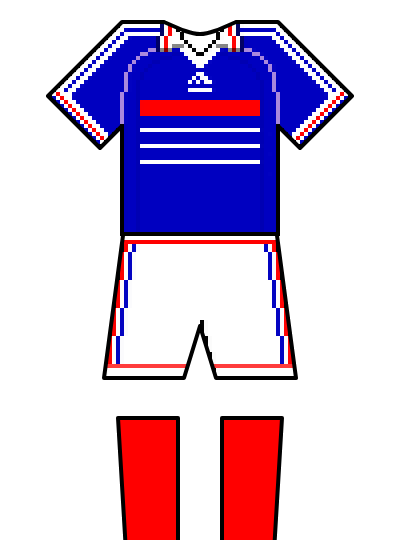
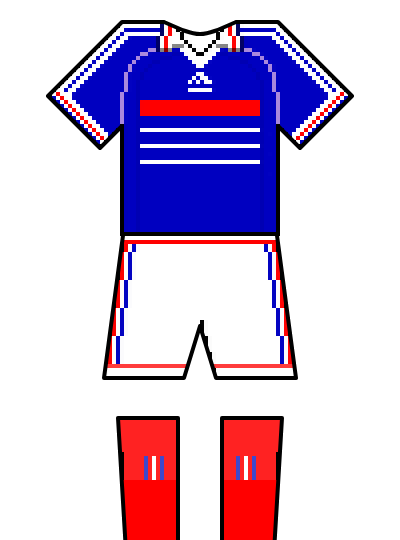
Publish site from bc673e07212436309b5cbb4328c5a6aa83b01605 bc673e07212436309b5cbb4328c5a6aa83b01605

Changed region(s): [[0.54, 0.7704, 0.72, 0.8889], [0.3, 0.7704, 0.45, 0.8889]]

diff --git a/data/kits.js b/data/kits.js
@@ -39,7 +39,7 @@ window.HALFTIME_KITS = [
     matches: ["1930-world-cup-final"],
     coloursSource: "Wikipedia, \"1930 FIFA World Cup final\" (revision 1370476710), CC BY-SA 4.0",
     coloursUrl: "https://en.wikipedia.org/w/index.php?title=1930_FIFA_World_Cup_final&oldid=1370476710",
-    illustration: { file: "argentina-1930.png", credit: "Drawn after the kit shown in Wikipedia’s \"1930 FIFA World Cup final\" article. Pattern pictures from Wikimedia Commons: Kit left arm white stripes.png (CC BY-SA 3.0); Kit body 3stripesonwhite.png (CC BY-SA 3.0); Kit right arm white stripes.png (CC BY-SA 3.0). Outline: Wikimedia Commons kit template drawings." }
+    illustration: { file: "argentina-1930.png", credit: "Drawn after the kit shown in Wikipedia’s \"1930 FIFA World Cup final\" article. Pattern pictures from Wikimedia Commons: Kit left arm white stripes.png (CC BY-SA 3.0); Kit body 3stripesonwhite.png (CC BY-SA 3.0); Kit right arm white stripes.png (CC BY-SA 3.0); Kit socks white bands.png (CC BY-SA 3.0, VEO15). Outline: Wikimedia Commons kit template drawings." }
   },
   {
     id: "uruguay-1930",
@@ -54,7 +54,7 @@ window.HALFTIME_KITS = [
     matches: ["1930-world-cup-final"],
     coloursSource: "Wikipedia, \"1930 FIFA World Cup final\" (revision 1370476710), CC BY-SA 4.0",
     coloursUrl: "https://en.wikipedia.org/w/index.php?title=1930_FIFA_World_Cup_final&oldid=1370476710",
-    illustration: { file: "uruguay-1930.png", credit: "Drawn after the kit shown in Wikipedia’s \"1930 FIFA World Cup final\" article. Pattern pictures from Wikimedia Commons: Kit left arm whiteborder.png (CC BY-SA 3.0); Kit body collarwhite laced.png (CC BY-SA 4.0, Fma12); Kit right arm whiteborder.png (CC BY-SA 3.0). Outline: Wikimedia Commons kit template drawings." }
+    illustration: { file: "uruguay-1930.png", credit: "Drawn after the kit shown in Wikipedia’s \"1930 FIFA World Cup final\" article. Pattern pictures from Wikimedia Commons: Kit left arm whiteborder.png (CC BY-SA 3.0); Kit body collarwhite laced.png (CC BY-SA 4.0, Fma12); Kit right arm whiteborder.png (CC BY-SA 3.0); Kit socks white bands.png (CC BY-SA 3.0, VEO15). Outline: Wikimedia Commons kit template drawings." }
   },
   {
     id: "czechoslovakia-1934",
@@ -84,7 +84,7 @@ window.HALFTIME_KITS = [
     matches: ["1934-world-cup-final"],
     coloursSource: "Wikipedia, \"1934 FIFA World Cup final\" (revision 1370476727), CC BY-SA 4.0",
     coloursUrl: "https://en.wikipedia.org/w/index.php?title=1934_FIFA_World_Cup_final&oldid=1370476727",
-    illustration: { file: "italy-1934.png", credit: "Drawn after the kit shown in Wikipedia’s \"1934 FIFA World Cup final\" article. Pattern pictures from Wikimedia Commons: Kit left arm Italia1927-1943h.png (CC BY-SA 4.0, Romano1979); Kit body colour vneck.png (CC0, KoreanDragon); Kit right arm Italia1927-1943h.png (CC BY-SA 4.0, Romano1979); Kit shorts Italiah.png (CC BY-SA 4.0, Romano1979). Outline: Wikimedia Commons kit template drawings." }
+    illustration: { file: "italy-1934.png", credit: "Drawn after the kit shown in Wikipedia’s \"1934 FIFA World Cup final\" article. Pattern pictures from Wikimedia Commons: Kit left arm Italia1927-1943h.png (CC BY-SA 4.0, Romano1979); Kit body colour vneck.png (CC0, KoreanDragon); Kit right arm Italia1927-1943h.png (CC BY-SA 4.0, Romano1979); Kit shorts Italiah.png (CC BY-SA 4.0, Romano1979); Kit socks Italia1927-1943h.png (CC BY-SA 4.0, Romano1979). Outline: Wikimedia Commons kit template drawings." }
   },
   {
     id: "hungary-1938",
@@ -114,7 +114,7 @@ window.HALFTIME_KITS = [
     matches: ["1938-world-cup-final"],
     coloursSource: "Wikipedia, \"1938 FIFA World Cup final\" (revision 1370476759), CC BY-SA 4.0",
     coloursUrl: "https://en.wikipedia.org/w/index.php?title=1938_FIFA_World_Cup_final&oldid=1370476759",
-    illustration: { file: "italy-1938.png", credit: "Drawn after the kit shown in Wikipedia’s \"1938 FIFA World Cup final\" article. Pattern pictures from Wikimedia Commons: Kit left arm Italia1927-1943h.png (CC BY-SA 4.0, Romano1979); Kit body colour vneck.png (CC0, KoreanDragon); Kit right arm Italia1927-1943h.png (CC BY-SA 4.0, Romano1979); Kit shorts Italiah.png (CC BY-SA 4.0, Romano1979). Outline: Wikimedia Commons kit template drawings." }
+    illustration: { file: "italy-1938.png", credit: "Drawn after the kit shown in Wikipedia’s \"1938 FIFA World Cup final\" article. Pattern pictures from Wikimedia Commons: Kit left arm Italia1927-1943h.png (CC BY-SA 4.0, Romano1979); Kit body colour vneck.png (CC0, KoreanDragon); Kit right arm Italia1927-1943h.png (CC BY-SA 4.0, Romano1979); Kit shorts Italiah.png (CC BY-SA 4.0, Romano1979); Kit socks Italia1927-1943h.png (CC BY-SA 4.0, Romano1979). Outline: Wikimedia Commons kit template drawings." }
   },
   {
     id: "brazil-1950",
@@ -144,7 +144,7 @@ window.HALFTIME_KITS = [
     matches: ["1950-world-cup-final"],
     coloursSource: "Wikipedia, \"Uruguay v Brazil (1950 FIFA World Cup)\" (revision 1370476799), CC BY-SA 4.0",
     coloursUrl: "https://en.wikipedia.org/w/index.php?title=Uruguay_v_Brazil_(1950_FIFA_World_Cup)&oldid=1370476799",
-    illustration: { file: "uruguay-1950.png", credit: "Drawn after the kit shown in Wikipedia’s \"Uruguay v Brazil (1950 FIFA World Cup)\" article. Pattern pictures from Wikimedia Commons: Kit left arm whiteborder.png (CC BY-SA 3.0); Kit body vneckwhite.png (Public domain, No machine-readable author provided.); Kit right arm whiteborder.png (CC BY-SA 3.0). Outline: Wikimedia Commons kit template drawings." }
+    illustration: { file: "uruguay-1950.png", credit: "Drawn after the kit shown in Wikipedia’s \"Uruguay v Brazil (1950 FIFA World Cup)\" article. Pattern pictures from Wikimedia Commons: Kit left arm whiteborder.png (CC BY-SA 3.0); Kit body vneckwhite.png (Public domain, No machine-readable author provided.); Kit right arm whiteborder.png (CC BY-SA 3.0); Kit socks skybluetop.png (CC BY-SA 3.0, MEDM). Outline: Wikimedia Commons kit template drawings." }
   },
   {
     id: "hungary-1954",
@@ -159,7 +159,7 @@ window.HALFTIME_KITS = [
     matches: ["1954-world-cup-final"],
     coloursSource: "Wikipedia, \"1954 FIFA World Cup final\" (revision 1373704546), CC BY-SA 4.0",
     coloursUrl: "https://en.wikipedia.org/w/index.php?title=1954_FIFA_World_Cup_final&oldid=1373704546",
-    illustration: { file: "hungary-1954.png", credit: "Drawn after the kit shown in Wikipedia’s \"1954 FIFA World Cup final\" article. Pattern pictures from Wikimedia Commons: Kit body hun 1949 1956 home.png (CC BY-SA 3.0, Brgesto). Outline: Wikimedia Commons kit template drawings." }
+    illustration: { file: "hungary-1954.png", credit: "Drawn after the kit shown in Wikipedia’s \"1954 FIFA World Cup final\" article. Pattern pictures from Wikimedia Commons: Kit body hun 1949 1956 home.png (CC BY-SA 3.0, Brgesto); Kit socks whitestripe.png (CC BY-SA 3.0, El_Pollo_Diablo). Outline: Wikimedia Commons kit template drawings." }
   },
   {
     id: "west-germany-1954",
@@ -174,7 +174,7 @@ window.HALFTIME_KITS = [
     matches: ["1954-world-cup-final"],
     coloursSource: "Wikipedia, \"1954 FIFA World Cup final\" (revision 1373704546), CC BY-SA 4.0",
     coloursUrl: "https://en.wikipedia.org/w/index.php?title=1954_FIFA_World_Cup_final&oldid=1373704546",
-    illustration: { file: "west-germany-1954.png", credit: "Drawn after the kit shown in Wikipedia’s \"1954 FIFA World Cup final\" article. Pattern pictures from Wikimedia Commons: Kit left arm blackborder.png (Public domain, No machine-readable author provided.); Kit body ger54h.png (CC BY-SA 4.0, KoreanDragon); Kit right arm blackborder.png (Public domain, No machine-readable author provided.). Outline: Wikimedia Commons kit template drawings." }
+    illustration: { file: "west-germany-1954.png", credit: "Drawn after the kit shown in Wikipedia’s \"1954 FIFA World Cup final\" article. Pattern pictures from Wikimedia Commons: Kit left arm blackborder.png (Public domain, No machine-readable author provided.); Kit body ger54h.png (CC BY-SA 4.0, KoreanDragon); Kit right arm blackborder.png (Public domain, No machine-readable author provided.); Kit socks band white.png (CC BY-SA 3.0, Bruno-ban). Outline: Wikimedia Commons kit template drawings." }
   },
   {
     id: "brazil-1958",
@@ -204,7 +204,7 @@ window.HALFTIME_KITS = [
     matches: ["1958-world-cup-final"],
     coloursSource: "Wikipedia, \"1958 FIFA World Cup final\" (revision 1370476889), CC BY-SA 4.0",
     coloursUrl: "https://en.wikipedia.org/w/index.php?title=1958_FIFA_World_Cup_final&oldid=1370476889",
-    illustration: { file: "sweden-1958.png", credit: "Drawn after the kit shown in Wikipedia’s \"1958 FIFA World Cup final\" article. Pattern pictures from Wikimedia Commons: Kit body swe58h.png (CC0, KoreanDragon). Outline: Wikimedia Commons kit template drawings." }
+    illustration: { file: "sweden-1958.png", credit: "Drawn after the kit shown in Wikipedia’s \"1958 FIFA World Cup final\" article. Pattern pictures from Wikimedia Commons: Kit body swe58h.png (CC0, KoreanDragon); Kit socks yellowtop.png (CC BY-SA 3.0, Luxusfrosch). Outline: Wikimedia Commons kit template drawings." }
   },
   {
     id: "brazil-1962",
@@ -294,7 +294,7 @@ window.HALFTIME_KITS = [
     matches: ["1970-world-cup-final"],
     coloursSource: "Wikipedia, \"1970 FIFA World Cup final\" (revision 1378370769), CC BY-SA 4.0",
     coloursUrl: "https://en.wikipedia.org/w/index.php?title=1970_FIFA_World_Cup_final&oldid=1378370769",
-    illustration: { file: "italy-1970.png", credit: "Drawn after the kit shown in Wikipedia’s \"1970 FIFA World Cup final\" article. Pattern pictures from Wikimedia Commons: Kit body ita70h.png (CC0, KoreanDragon). Outline: Wikimedia Commons kit template drawings." }
+    illustration: { file: "italy-1970.png", credit: "Drawn after the kit shown in Wikipedia’s \"1970 FIFA World Cup final\" article. Pattern pictures from Wikimedia Commons: Kit body ita70h.png (CC0, KoreanDragon); Kit socks 2whitestripes.png (CC BY-SA 3.0, El_Pollo_Diablo). Outline: Wikimedia Commons kit template drawings." }
   },
   {
     id: "netherlands-1974",
@@ -309,7 +309,7 @@ window.HALFTIME_KITS = [
     matches: ["1974-world-cup-final"],
     coloursSource: "Wikipedia, \"1974 FIFA World Cup final\" (revision 1376222563), CC BY-SA 4.0",
     coloursUrl: "https://en.wikipedia.org/w/index.php?title=1974_FIFA_World_Cup_final&oldid=1376222563",
-    illustration: { file: "netherlands-1974.png", credit: "Drawn after the kit shown in Wikipedia’s \"1974 FIFA World Cup final\" article. Pattern pictures from Wikimedia Commons: Kit left arm netherlands80h.png (CC BY-SA 4.0, Zotteteen1); Kit body ned74h.png (CC0, KoreanDragon); Kit right arm netherlands80h.png (CC BY-SA 4.0, Zotteteen1); Kit shorts adidasonwhite.png (Public domain, Kanchelskis). Outline: Wikimedia Commons kit template drawings." }
+    illustration: { file: "netherlands-1974.png", credit: "Drawn after the kit shown in Wikipedia’s \"1974 FIFA World Cup final\" article. Pattern pictures from Wikimedia Commons: Kit left arm netherlands80h.png (CC BY-SA 4.0, Zotteteen1); Kit body ned74h.png (CC0, KoreanDragon); Kit right arm netherlands80h.png (CC BY-SA 4.0, Zotteteen1); Kit shorts adidasonwhite.png (Public domain, Kanchelskis); Kit socks color 3 stripes black.png (CC BY-SA 3.0, Bruno-ban). Outline: Wikimedia Commons kit template drawings." }
   },
   {
     id: "west-germany-1974",
@@ -339,7 +339,7 @@ window.HALFTIME_KITS = [
     matches: ["1978-world-cup-final"],
     coloursSource: "Wikipedia, \"1978 FIFA World Cup final\" (revision 1376299383), CC BY-SA 4.0",
     coloursUrl: "https://en.wikipedia.org/w/index.php?title=1978_FIFA_World_Cup_final&oldid=1376299383",
-    illustration: { file: "argentina-1978.png", credit: "Drawn after the kit shown in Wikipedia’s \"1978 FIFA World Cup final\" article. Pattern pictures from Wikimedia Commons: Kit left arm arg7879h.png (CC BY-SA 4.0, Lucas.st); Kit body arg7879h.png (CC BY-SA 4.0, Lucas.st); Kit right arm arg7879h.png (CC BY-SA 4.0, Lucas.st); Kit shorts arg7879h.png (CC BY-SA 4.0, Lucas.st). Outline: Wikimedia Commons kit template drawings." }
+    illustration: { file: "argentina-1978.png", credit: "Drawn after the kit shown in Wikipedia’s \"1978 FIFA World Cup final\" article. Pattern pictures from Wikimedia Commons: Kit left arm arg7879h.png (CC BY-SA 4.0, Lucas.st); Kit body arg7879h.png (CC BY-SA 4.0, Lucas.st); Kit right arm arg7879h.png (CC BY-SA 4.0, Lucas.st); Kit shorts arg7879h.png (CC BY-SA 4.0, Lucas.st); Kit socks arg78h.png (CC BY-SA 4.0, Paraquepore). Outline: Wikimedia Commons kit template drawings." }
   },
   {
     id: "netherlands-1978",
@@ -354,7 +354,7 @@ window.HALFTIME_KITS = [
     matches: ["1978-world-cup-final"],
     coloursSource: "Wikipedia, \"1978 FIFA World Cup final\" (revision 1376299383), CC BY-SA 4.0",
     coloursUrl: "https://en.wikipedia.org/w/index.php?title=1978_FIFA_World_Cup_final&oldid=1376299383",
-    illustration: { file: "netherlands-1978.png", credit: "Drawn after the kit shown in Wikipedia’s \"1978 FIFA World Cup final\" article. Pattern pictures from Wikimedia Commons: Kit left arm netherlands80h.png (CC BY-SA 4.0, Zotteteen1); Kit body netherlands80h.png (CC BY-SA 4.0, Zotteteen1); Kit right arm netherlands80h.png (CC BY-SA 4.0, Zotteteen1); Kit shorts adidasonwhite.png (Public domain, Kanchelskis). Outline: Wikimedia Commons kit template drawings." }
+    illustration: { file: "netherlands-1978.png", credit: "Drawn after the kit shown in Wikipedia’s \"1978 FIFA World Cup final\" article. Pattern pictures from Wikimedia Commons: Kit left arm netherlands80h.png (CC BY-SA 4.0, Zotteteen1); Kit body netherlands80h.png (CC BY-SA 4.0, Zotteteen1); Kit right arm netherlands80h.png (CC BY-SA 4.0, Zotteteen1); Kit shorts adidasonwhite.png (Public domain, Kanchelskis); Kit socks netherlands80h.png (CC BY-SA 4.0, Zotteteen1). Outline: Wikimedia Commons kit template drawings." }
   },
   {
     id: "italy-1982",
@@ -369,7 +369,7 @@ window.HALFTIME_KITS = [
     matches: ["1982-world-cup-final"],
     coloursSource: "Wikipedia, \"1982 FIFA World Cup final\" (revision 1376321424), CC BY-SA 4.0; colour read from the Commons picture \"Kit body ita82.png\" (CC BY-SA 3.0)",
     coloursUrl: "https://en.wikipedia.org/w/index.php?title=1982_FIFA_World_Cup_final&oldid=1376321424",
-    illustration: { file: "italy-1982.png", credit: "Drawn after the kit shown in Wikipedia’s \"1982 FIFA World Cup final\" article. Pattern pictures from Wikimedia Commons: Kit left arm italy1982-90.png (CC BY-SA 3.0, Radis2); Kit body ita82.png (CC BY-SA 3.0, KoreanDragon); Kit right arm italy1982-90.png (CC BY-SA 3.0, Radis2). Outline: Wikimedia Commons kit template drawings." }
+    illustration: { file: "italy-1982.png", credit: "Drawn after the kit shown in Wikipedia’s \"1982 FIFA World Cup final\" article. Pattern pictures from Wikimedia Commons: Kit left arm italy1982-90.png (CC BY-SA 3.0, Radis2); Kit body ita82.png (CC BY-SA 3.0, KoreanDragon); Kit right arm italy1982-90.png (CC BY-SA 3.0, Radis2); Kit socks italia cm1994.png (CC BY-SA 3.0, MEDM). Outline: Wikimedia Commons kit template drawings." }
   },
   {
     id: "west-germany-1982",
@@ -384,7 +384,7 @@ window.HALFTIME_KITS = [
     matches: ["1982-world-cup-final"],
     coloursSource: "Wikipedia, \"1982 FIFA World Cup final\" (revision 1376321424), CC BY-SA 4.0",
     coloursUrl: "https://en.wikipedia.org/w/index.php?title=1982_FIFA_World_Cup_final&oldid=1376321424",
-    illustration: { file: "west-germany-1982.png", credit: "Drawn after the kit shown in Wikipedia’s \"1982 FIFA World Cup final\" article. Pattern pictures from Wikimedia Commons: Kit left arm westgermany1980.png (CC BY-SA 3.0, Zotteteen1); Kit body westgermany1980.png (CC BY-SA 3.0, Zotteteen1); Kit right arm westgermany1980.png (CC BY-SA 3.0, Zotteteen1). Outline: Wikimedia Commons kit template drawings." }
+    illustration: { file: "west-germany-1982.png", credit: "Drawn after the kit shown in Wikipedia’s \"1982 FIFA World Cup final\" article. Pattern pictures from Wikimedia Commons: Kit left arm westgermany1980.png (CC BY-SA 3.0, Zotteteen1); Kit body westgermany1980.png (CC BY-SA 3.0, Zotteteen1); Kit right arm westgermany1980.png (CC BY-SA 3.0, Zotteteen1); Kit socks color 3 stripes black.png (CC BY-SA 3.0, Bruno-ban). Outline: Wikimedia Commons kit template drawings." }
   },
   {
     id: "argentina-1986",
@@ -399,7 +399,7 @@ window.HALFTIME_KITS = [
     matches: ["1986-world-cup-final"],
     coloursSource: "Wikipedia, \"1986 FIFA World Cup final\" (revision 1378321402), CC BY-SA 4.0",
     coloursUrl: "https://en.wikipedia.org/w/index.php?title=1986_FIFA_World_Cup_final&oldid=1378321402",
-    illustration: { file: "argentina-1986.png", credit: "Drawn after the kit shown in Wikipedia’s \"1986 FIFA World Cup final\" article. Pattern pictures from Wikimedia Commons: Kit left arm argentina1986.png (CC BY-SA 3.0, Zotteteen1); Kit body argentina1986.png (CC BY-SA 3.0, Zotteteen1); Kit right arm argentina1986.png (CC BY-SA 3.0, Zotteteen1); Kit shorts argentina1986.png (CC BY-SA 3.0, Zotteteen1). Outline: Wikimedia Commons kit template drawings." }
+    illustration: { file: "argentina-1986.png", credit: "Drawn after the kit shown in Wikipedia’s \"1986 FIFA World Cup final\" article. Pattern pictures from Wikimedia Commons: Kit left arm argentina1986.png (CC BY-SA 3.0, Zotteteen1); Kit body argentina1986.png (CC BY-SA 3.0, Zotteteen1); Kit right arm argentina1986.png (CC BY-SA 3.0, Zotteteen1); Kit shorts argentina1986.png (CC BY-SA 3.0, Zotteteen1); Kit socks argentina1986.png (CC BY-SA 3.0, Zotteteen1). Outline: Wikimedia Commons kit template drawings." }
   },
   {
     id: "west-germany-1986",
@@ -414,7 +414,7 @@ window.HALFTIME_KITS = [
     matches: ["1986-world-cup-final"],
     coloursSource: "Wikipedia, \"1986 FIFA World Cup final\" (revision 1378321402), CC BY-SA 4.0",
     coloursUrl: "https://en.wikipedia.org/w/index.php?title=1986_FIFA_World_Cup_final&oldid=1378321402",
-    illustration: { file: "west-germany-1986.png", credit: "Drawn after the kit shown in Wikipedia’s \"1986 FIFA World Cup final\" article. Pattern pictures from Wikimedia Commons: Kit left arm shoulder stripes white stripes.png (Public domain, Chandler); Kit body westgermany1986.png (CC BY-SA 3.0, Zotteteen1); Kit right arm shoulder stripes white stripes.png (Public domain, Chandler). Outline: Wikimedia Commons kit template drawings." }
+    illustration: { file: "west-germany-1986.png", credit: "Drawn after the kit shown in Wikipedia’s \"1986 FIFA World Cup final\" article. Pattern pictures from Wikimedia Commons: Kit left arm shoulder stripes white stripes.png (Public domain, Chandler); Kit body westgermany1986.png (CC BY-SA 3.0, Zotteteen1); Kit right arm shoulder stripes white stripes.png (Public domain, Chandler); Kit socks 3 stripes white.png (Public domain, Dragases). Outline: Wikimedia Commons kit template drawings." }
   },
   {
     id: "argentina-1990",
@@ -429,7 +429,7 @@ window.HALFTIME_KITS = [
     matches: ["1990-world-cup-final"],
     coloursSource: "Wikipedia, \"1990 FIFA World Cup final\" (revision 1376676631), CC BY-SA 4.0",
     coloursUrl: "https://en.wikipedia.org/w/index.php?title=1990_FIFA_World_Cup_final&oldid=1376676631",
-    illustration: { file: "argentina-1990.png", credit: "Drawn after the kit shown in Wikipedia’s \"1990 FIFA World Cup final\" article. Pattern pictures from Wikimedia Commons: Kit left arm argentina1990a.png (CC BY-SA 3.0, Zotteteen1); Kit body argentina1990a.png (CC BY-SA 3.0, Zotteteen1); Kit right arm argentina1990a.png (CC BY-SA 3.0, Zotteteen1). Outline: Wikimedia Commons kit template drawings." }
+    illustration: { file: "argentina-1990.png", credit: "Drawn after the kit shown in Wikipedia’s \"1990 FIFA World Cup final\" article. Pattern pictures from Wikimedia Commons: Kit left arm argentina1990a.png (CC BY-SA 3.0, Zotteteen1); Kit body argentina1990a.png (CC BY-SA 3.0, Zotteteen1); Kit right arm argentina1990a.png (CC BY-SA 3.0, Zotteteen1); Kit socks color 3 stripes white.png (Public domain, Dragases). Outline: Wikimedia Commons kit template drawings." }
   },
   {
     id: "west-germany-1990",
@@ -444,7 +444,7 @@ window.HALFTIME_KITS = [
     matches: ["1990-world-cup-final"],
     coloursSource: "Wikipedia, \"1990 FIFA World Cup final\" (revision 1376676631), CC BY-SA 4.0",
     coloursUrl: "https://en.wikipedia.org/w/index.php?title=1990_FIFA_World_Cup_final&oldid=1376676631",
-    illustration: { file: "west-germany-1990.png", credit: "Drawn after the kit shown in Wikipedia’s \"1990 FIFA World Cup final\" article. Pattern pictures from Wikimedia Commons: Kit left arm ger90h.png (CC BY-SA 4.0, Quenombre123); Kit body westgermany1990.png (CC BY-SA 4.0, Quenombre123); Kit right arm ger90h.png (CC BY-SA 4.0, Quenombre123); Kit shorts ger90h.png (CC BY-SA 4.0, Quenombre123). Outline: Wikimedia Commons kit template drawings." }
+    illustration: { file: "west-germany-1990.png", credit: "Drawn after the kit shown in Wikipedia’s \"1990 FIFA World Cup final\" article. Pattern pictures from Wikimedia Commons: Kit left arm ger90h.png (CC BY-SA 4.0, Quenombre123); Kit body westgermany1990.png (CC BY-SA 4.0, Quenombre123); Kit right arm ger90h.png (CC BY-SA 4.0, Quenombre123); Kit shorts ger90h.png (CC BY-SA 4.0, Quenombre123); Kit socks color 3 stripes black.png (CC BY-SA 3.0, Bruno-ban). Outline: Wikimedia Commons kit template drawings." }
   },
   {
     id: "brazil-1994",
@@ -474,7 +474,7 @@ window.HALFTIME_KITS = [
     matches: ["1994-world-cup-final"],
     coloursSource: "Wikipedia, \"1994 FIFA World Cup final\" (revision 1370814532), CC BY-SA 4.0",
     coloursUrl: "https://en.wikipedia.org/w/index.php?title=1994_FIFA_World_Cup_final&oldid=1370814532",
-    illustration: { file: "italy-1994.png", credit: "Drawn after the kit shown in Wikipedia’s \"1994 FIFA World Cup final\" article. Pattern pictures from Wikimedia Commons: Kit left arm ita94h1.png (CC BY-SA 4.0, Hurfer); Kit body ita94h1.png (CC BY-SA 4.0, Hurfer); Kit right arm ita94h1.png (CC BY-SA 4.0, Hurfer). Outline: Wikimedia Commons kit template drawings." }
+    illustration: { file: "italy-1994.png", credit: "Drawn after the kit shown in Wikipedia’s \"1994 FIFA World Cup final\" article. Pattern pictures from Wikimedia Commons: Kit left arm ita94h1.png (CC BY-SA 4.0, Hurfer); Kit body ita94h1.png (CC BY-SA 4.0, Hurfer); Kit right arm ita94h1.png (CC BY-SA 4.0, Hurfer); Kit socks ita94h1.png (CC BY-SA 4.0, Hurfer). Outline: Wikimedia Commons kit template drawings." }
   },
   {
     id: "brazil-1998",
@@ -504,7 +504,7 @@ window.HALFTIME_KITS = [
     matches: ["1998-world-cup-final"],
     coloursSource: "Wikipedia, \"1998 FIFA World Cup final\" (revision 1370477312), CC BY-SA 4.0",
     coloursUrl: "https://en.wikipedia.org/w/index.php?title=1998_FIFA_World_Cup_final&oldid=1370477312",
-    illustration: { file: "france-1998.png", credit: "Drawn after the kit shown in Wikipedia’s \"1998 FIFA World Cup final\" article. Pattern pictures from Wikimedia Commons: Kit left arm france1998h.png (CC BY-SA 4.0, Zotteteen1); Kit body france1998h.png (CC BY-SA 4.0, Zotteteen1); Kit right arm france1998h.png (CC BY-SA 4.0, Zotteteen1); Kit shorts france1998a.png (CC BY-SA 4.0, Zotteteen1). Outline: Wikimedia Commons kit template drawings." }
+    illustration: { file: "france-1998.png", credit: "Drawn after the kit shown in Wikipedia’s \"1998 FIFA World Cup final\" article. Pattern pictures from Wikimedia Commons: Kit left arm france1998h.png (CC BY-SA 4.0, Zotteteen1); Kit body france1998h.png (CC BY-SA 4.0, Zotteteen1); Kit right arm france1998h.png (CC BY-SA 4.0, Zotteteen1); Kit shorts france1998a.png (CC BY-SA 4.0, Zotteteen1); Kit socks fra98h.png (CC BY-SA 4.0, Yoyo697). Outline: Wikimedia Commons kit template drawings." }
   },
   {
     id: "brazil-2002",
@@ -579,7 +579,7 @@ window.HALFTIME_KITS = [
     matches: ["2010-world-cup-final"],
     coloursSource: "Wikipedia, \"2010 FIFA World Cup final\" (revision 1370477459), CC BY-SA 4.0",
     coloursUrl: "https://en.wikipedia.org/w/index.php?title=2010_FIFA_World_Cup_final&oldid=1370477459",
-    illustration: { file: "netherlands-2010.png", credit: "Drawn after the kit shown in Wikipedia’s \"2010 FIFA World Cup final\" article. Pattern pictures from Wikimedia Commons: Kit left arm ned10h.png (CC BY-SA 3.0, Bruno-ban); Kit body ned10H.png (CC BY-SA 3.0, Bruno-ban); Kit right arm ned10h.png (CC BY-SA 3.0, Bruno-ban); Kit shorts ned10H.png (CC BY-SA 4.0, Abdul Qayyum Ahmad). Outline: Wikimedia Commons kit template drawings." }
+    illustration: { file: "netherlands-2010.png", credit: "Drawn after the kit shown in Wikipedia’s \"2010 FIFA World Cup final\" article. Pattern pictures from Wikimedia Commons: Kit left arm ned10h.png (CC BY-SA 3.0, Bruno-ban); Kit body ned10H.png (CC BY-SA 3.0, Bruno-ban); Kit right arm ned10h.png (CC BY-SA 3.0, Bruno-ban); Kit shorts ned10H.png (CC BY-SA 4.0, Abdul Qayyum Ahmad); Kit socks band black.png (CC BY-SA 3.0, Bruno-ban). Outline: Wikimedia Commons kit template drawings." }
   },
   {
     id: "spain-2010",
@@ -639,7 +639,7 @@ window.HALFTIME_KITS = [
     matches: ["2018-world-cup-final"],
     coloursSource: "Wikipedia, \"2018 FIFA World Cup final\" (revision 1375926597), CC BY-SA 4.0",
     coloursUrl: "https://en.wikipedia.org/w/index.php?title=2018_FIFA_World_Cup_final&oldid=1375926597",
-    illustration: { file: "croatia-2018.png", credit: "Drawn after the kit shown in Wikipedia’s \"2018 FIFA World Cup final\" article. Pattern pictures from Wikimedia Commons: Kit left arm cro18H.png (CC BY-SA 4.0, Zotteteen1); Kit body cro18ho.png (CC BY-SA 4.0, S); Kit right arm cro18H.png (CC BY-SA 4.0, Zotteteen1); Kit shorts cro18h.png (CC BY-SA 4.0, Eduardo_Stosick). Outline: Wikimedia Commons kit template drawings." }
+    illustration: { file: "croatia-2018.png", credit: "Drawn after the kit shown in Wikipedia’s \"2018 FIFA World Cup final\" article. Pattern pictures from Wikimedia Commons: Kit left arm cro18H.png (CC BY-SA 4.0, Zotteteen1); Kit body cro18ho.png (CC BY-SA 4.0, S); Kit right arm cro18H.png (CC BY-SA 4.0, Zotteteen1); Kit shorts cro18h.png (CC BY-SA 4.0, Eduardo_Stosick); Kit socks pol18H.png (CC BY-SA 4.0, JonasBR). Outline: Wikimedia Commons kit template drawings." }
   },
   {
     id: "france-2018",
@@ -654,7 +654,7 @@ window.HALFTIME_KITS = [
     matches: ["2018-world-cup-final"],
     coloursSource: "Wikipedia, \"2018 FIFA World Cup final\" (revision 1375926597), CC BY-SA 4.0",
     coloursUrl: "https://en.wikipedia.org/w/index.php?title=2018_FIFA_World_Cup_final&oldid=1375926597",
-    illustration: { file: "france-2018.png", credit: "Drawn after the kit shown in Wikipedia’s \"2018 FIFA World Cup final\" article. Pattern pictures from Wikimedia Commons: Kit left arm frank18h.png (CC BY-SA 4.0, Zotteteen1); Kit body fra18ho.png (CC BY-SA 4.0, Zotteteen1); Kit right arm frank18h.png (CC BY-SA 4.0, Zotteteen1); Kit shorts fra18a.png (CC BY-SA 4.0, Flix11). Outline: Wikimedia Commons kit template drawings." }
+    illustration: { file: "france-2018.png", credit: "Drawn after the kit shown in Wikipedia’s \"2018 FIFA World Cup final\" article. Pattern pictures from Wikimedia Commons: Kit left arm frank18h.png (CC BY-SA 4.0, Zotteteen1); Kit body fra18ho.png (CC BY-SA 4.0, Zotteteen1); Kit right arm frank18h.png (CC BY-SA 4.0, Zotteteen1); Kit shorts fra18a.png (CC BY-SA 4.0, Flix11); Kit socks fra18H2.png (CC BY-SA 4.0, Flix11). Outline: Wikimedia Commons kit template drawings." }
   },
   {
     id: "england-2021",
@@ -699,7 +699,7 @@ window.HALFTIME_KITS = [
     matches: ["2022-world-cup-final"],
     coloursSource: "Wikipedia, \"2022 FIFA World Cup final\" (revision 1377947686), CC BY-SA 4.0",
     coloursUrl: "https://en.wikipedia.org/w/index.php?title=2022_FIFA_World_Cup_final&oldid=1377947686",
-    illustration: { file: "argentina-2022.png", credit: "Drawn after the kit shown in Wikipedia’s \"2022 FIFA World Cup final\" article. Pattern pictures from Wikimedia Commons: Kit left arm arg22h.png (CC BY-SA 4.0, Mat); Kit body arg22H.png (CC BY-SA 4.0, Mat); Kit right arm arg22h.png (CC BY-SA 4.0, Mat); Kit shorts arg22h2.png (CC BY-SA 4.0, JonasBR). Outline: Wikimedia Commons kit template drawings." }
+    illustration: { file: "argentina-2022.png", credit: "Drawn after the kit shown in Wikipedia’s \"2022 FIFA World Cup final\" article. Pattern pictures from Wikimedia Commons: Kit left arm arg22h.png (CC BY-SA 4.0, Mat); Kit body arg22H.png (CC BY-SA 4.0, Mat); Kit right arm arg22h.png (CC BY-SA 4.0, Mat); Kit shorts arg22h2.png (CC BY-SA 4.0, JonasBR); Kit socks arg22h.png (CC BY-SA 4.0, Mateo_sou). Outline: Wikimedia Commons kit template drawings." }
   },
   {
     id: "france-2022",
@@ -714,7 +714,7 @@ window.HALFTIME_KITS = [
     matches: ["2022-world-cup-final"],
     coloursSource: "Wikipedia, \"2022 FIFA World Cup final\" (revision 1377947686), CC BY-SA 4.0",
     coloursUrl: "https://en.wikipedia.org/w/index.php?title=2022_FIFA_World_Cup_final&oldid=1377947686",
-    illustration: { file: "france-2022.png", credit: "Drawn after the kit shown in Wikipedia’s \"2022 FIFA World Cup final\" article. Pattern pictures from Wikimedia Commons: Kit left arm fra22h.png (CC BY-SA 4.0, Mat); Kit body fra22H.png (CC BY-SA 4.0, Mat); Kit right arm fra22h.png (CC BY-SA 4.0, Mat); Kit shorts fra22h2.png (CC BY-SA 4.0, Yoyo697). Outline: Wikimedia Commons kit template drawings." }
+    illustration: { file: "france-2022.png", credit: "Drawn after the kit shown in Wikipedia’s \"2022 FIFA World Cup final\" article. Pattern pictures from Wikimedia Commons: Kit left arm fra22h.png (CC BY-SA 4.0, Mat); Kit body fra22H.png (CC BY-SA 4.0, Mat); Kit right arm fra22h.png (CC BY-SA 4.0, Mat); Kit shorts fra22h2.png (CC BY-SA 4.0, Yoyo697); Kit socks fra22h2.png (CC BY-SA 4.0, Yoyo697). Outline: Wikimedia Commons kit template drawings." }
   },
   {
     id: "england-2024",
@@ -729,7 +729,7 @@ window.HALFTIME_KITS = [
     matches: ["2024-euro-final"],
     coloursSource: "Wikipedia, \"UEFA Euro 2024 final\" (revision 1374029048), CC BY-SA 4.0",
     coloursUrl: "https://en.wikipedia.org/w/index.php?title=UEFA_Euro_2024_final&oldid=1374029048",
-    illustration: { file: "england-2024.png", credit: "Drawn after the kit shown in Wikipedia’s \"UEFA Euro 2024 final\" article. Pattern pictures from Wikimedia Commons: Kit left arm eng24h.png (CC BY 4.0, Mat); Kit body eng24h.png (CC BY 4.0, Mat); Kit right arm eng24h.png (CC BY 4.0, Mat); Kit shorts eng24h2.png (CC BY 4.0, Mateo_sou). Outline: Wikimedia Commons kit template drawings." }
+    illustration: { file: "england-2024.png", credit: "Drawn after the kit shown in Wikipedia’s \"UEFA Euro 2024 final\" article. Pattern pictures from Wikimedia Commons: Kit left arm eng24h.png (CC BY 4.0, Mat); Kit body eng24h.png (CC BY 4.0, Mat); Kit right arm eng24h.png (CC BY 4.0, Mat); Kit shorts eng24h2.png (CC BY 4.0, Mateo_sou); Kit socks eng24h.png (CC0, Yoyo697). Outline: Wikimedia Commons kit template drawings." }
   },
   {
     id: "spain-2024",
